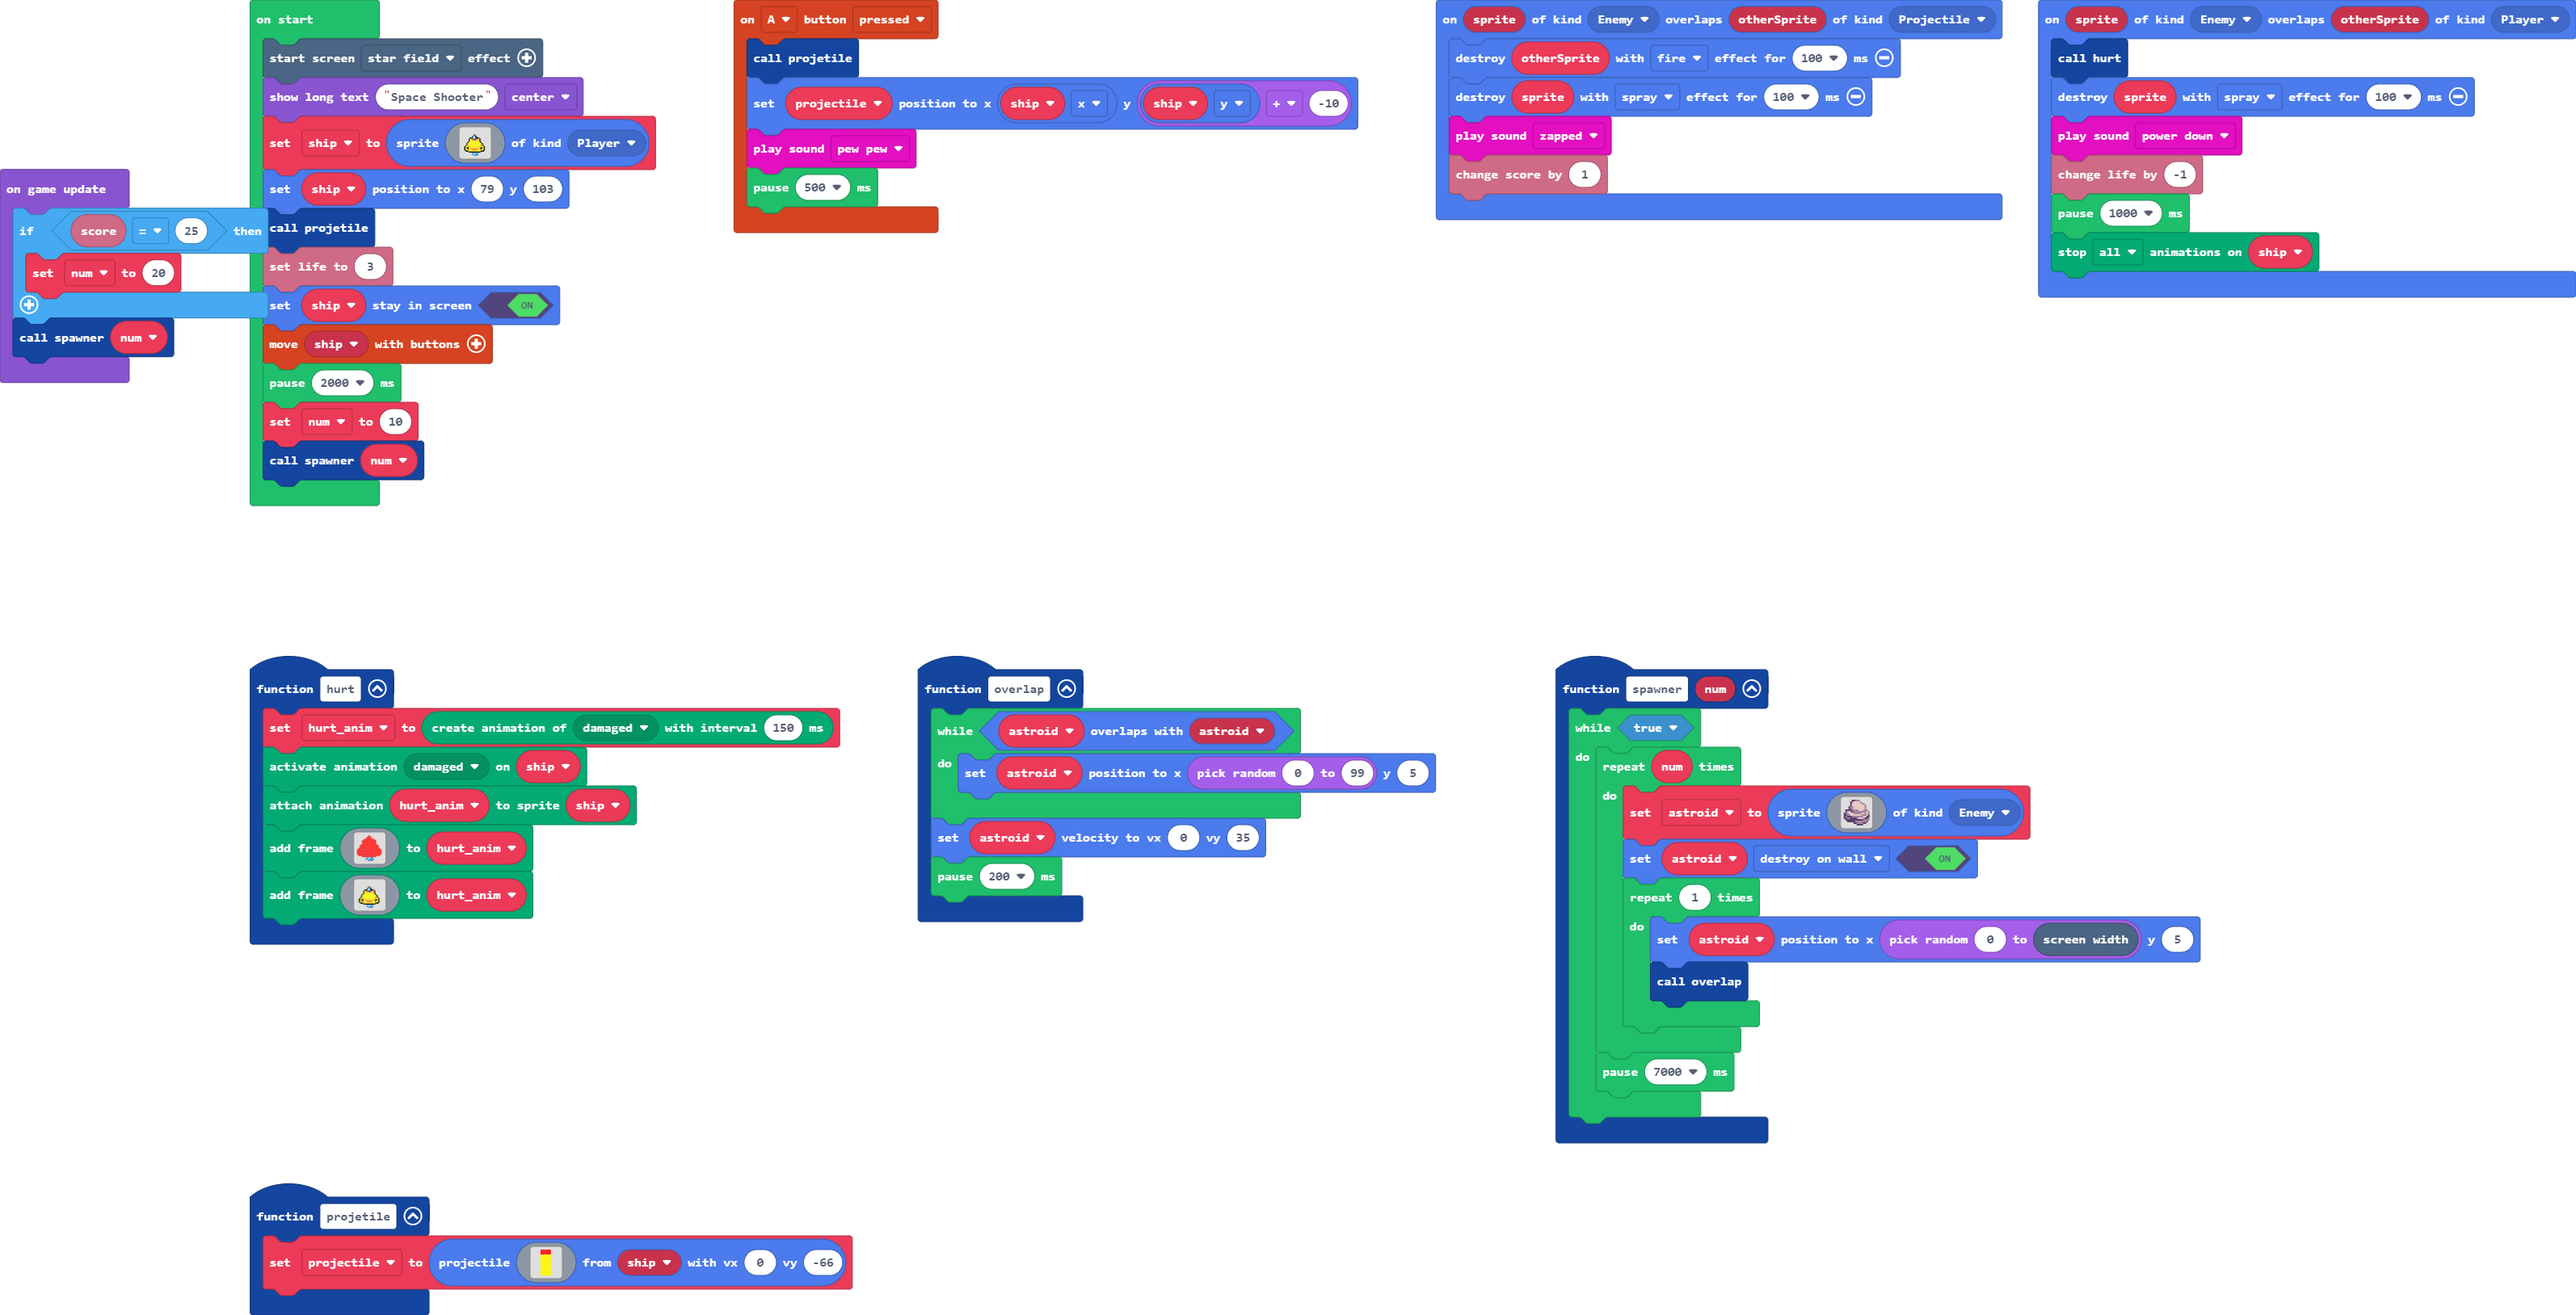
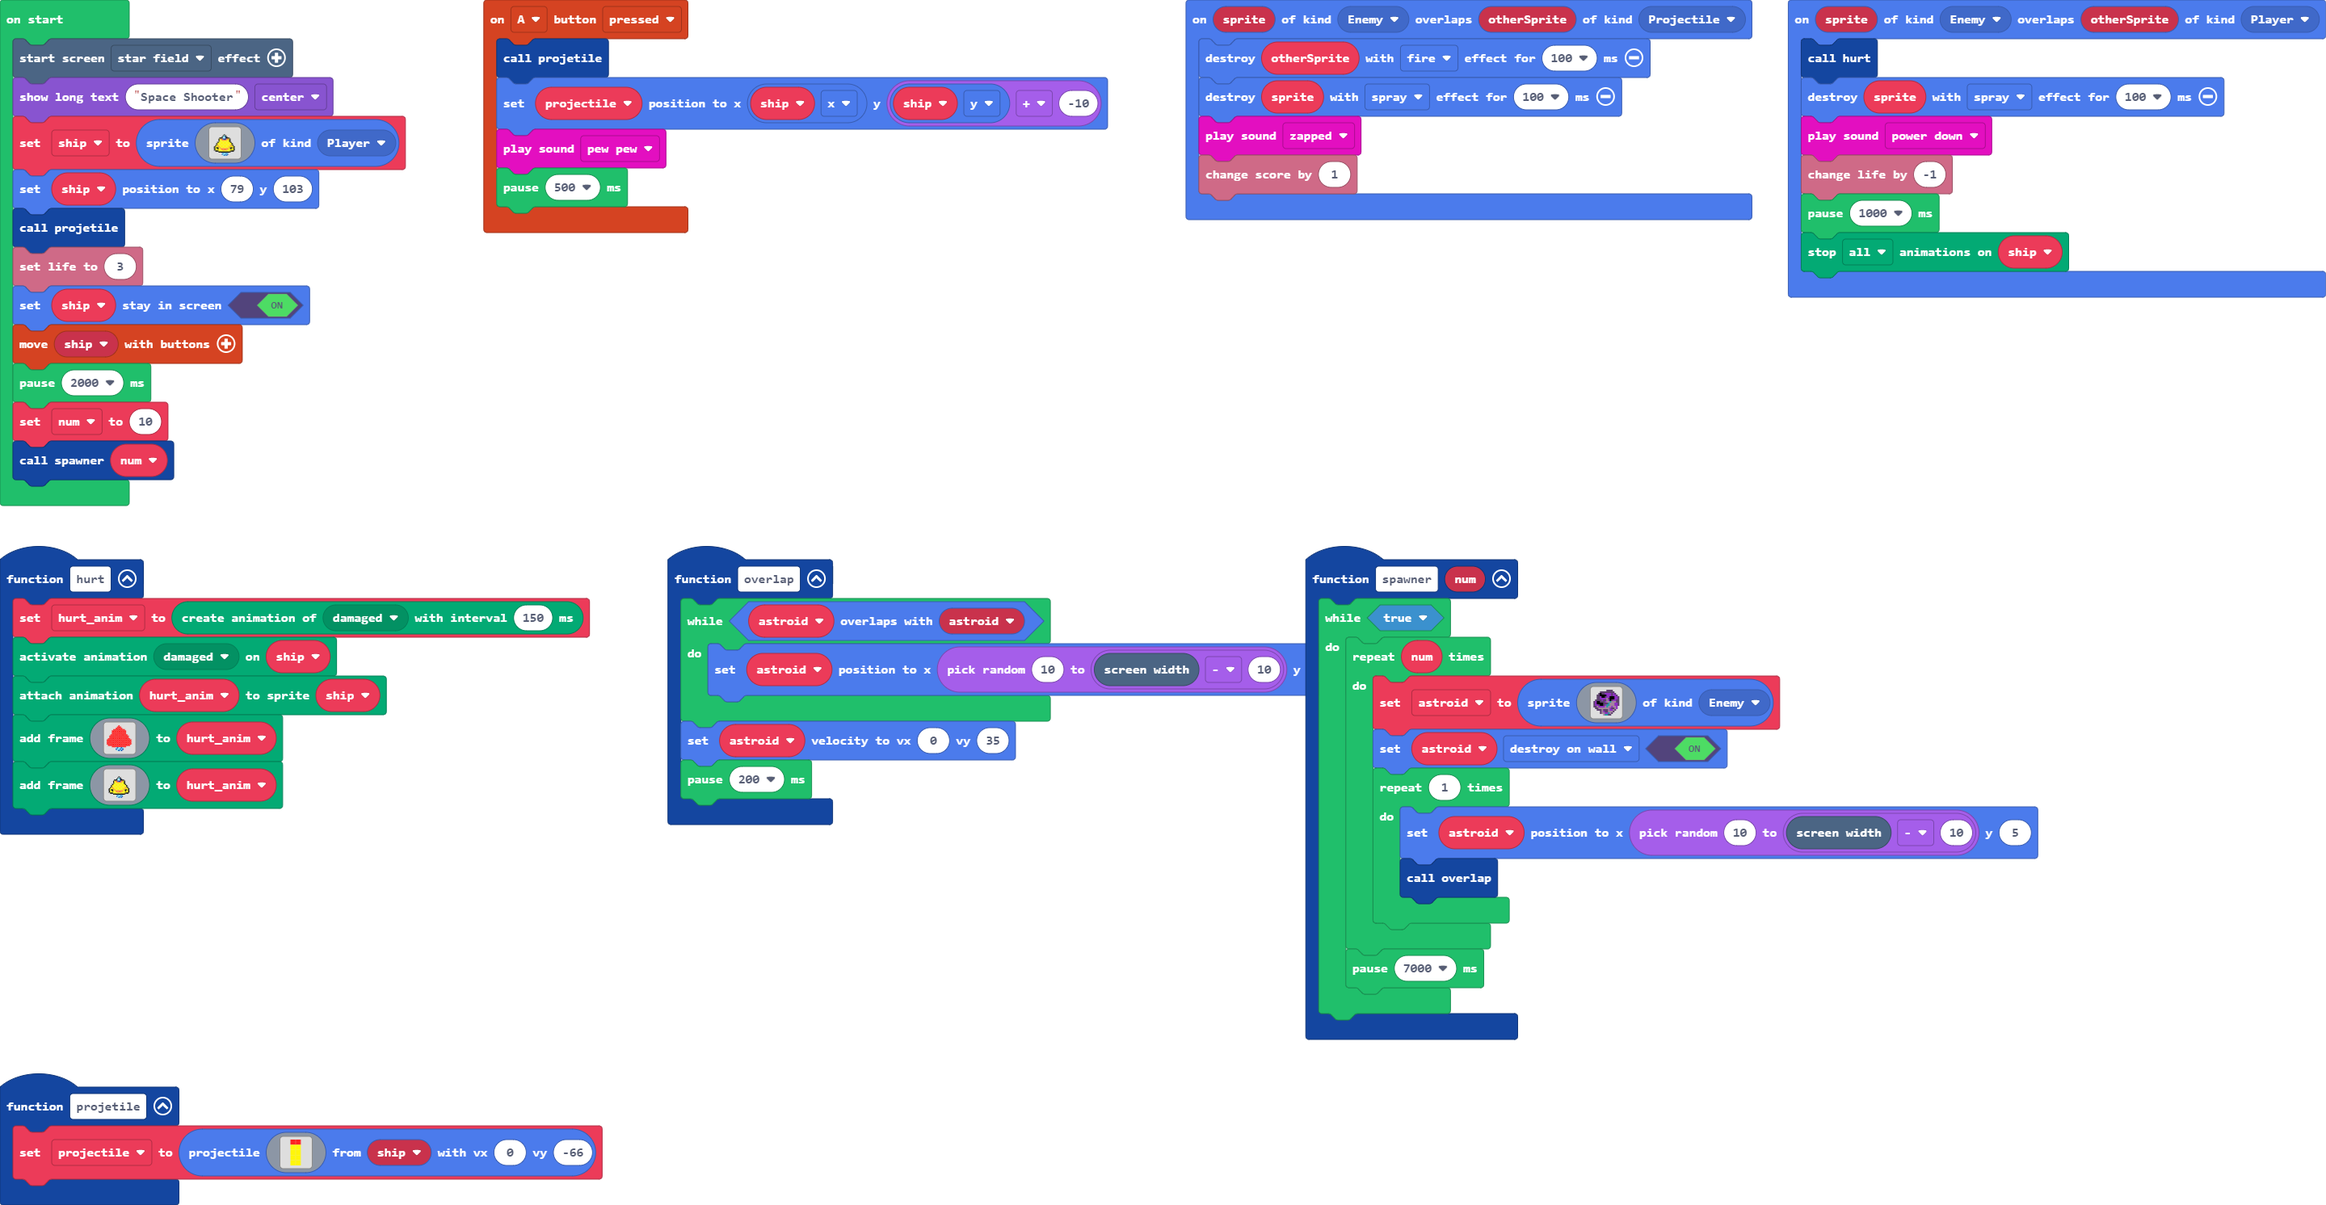
Update main.blocks, main.ts, images.g.jres, images.g.ts

diff --git a/images.g.ts b/images.g.ts
@@ -3,25 +3,6 @@ namespace myImages {
 
     helpers._registerFactory("image", function(name: string) {
         switch(helpers.stringTrim(name)) {
-            case "$j%%dW:s2s~HZ?q?_=y@":
-            case "asteroid":return img`
-. . . . . c c b b b . . . . . . 
-. . . . c b d d d d b . . . . . 
-. . . . c d d d d d d b b . . . 
-. . . . c d d d d d d d d b . . 
-. . . c b b d d d d d d d b . . 
-. . . c b b d d d d d d d b . . 
-. c c c c b b b b d d d b b b . 
-. c d d b c b b b b b b b b d b 
-c b b d d d b b b b b d d b d b 
-c c b b d d d d d d d b b b d c 
-c b c c c b b b b b b b d d c c 
-c c b b c c c c b d d d b c c b 
-. c c c c c c c c c c c b b b b 
-. . c c c c c b b b b b b b c . 
-. . . . . . c c b b b b c c . . 
-. . . . . . . . c c c c . . . . 
-`;
             case "D9-`T_l?fAeyK*B}I;lD":
             case "bullet":return img`
 2 2 
@@ -79,6 +60,25 @@ c c b b c c c c b d d d b c c b
 .......989989.......
 .......899898.......
 ........9898........
+`;
+            case "$j%%dW:s2s~HZ?q?_=y@":
+            case "asteroid":return img`
+. . . . . . . . c c c c . . . . 
+. . . . c c c c c c c c c . . . 
+. . . c f c c a a a a c a c . . 
+. . c c f f f f a a a c a a c . 
+. . c c a f f c a a f f f a a c 
+. . c c a a a a b c f f f a a c 
+. c c c c a c c b a f c a a c c 
+c a f f c c c a b b 6 b b b c c 
+c a f f f f c c c 6 b b b a a c 
+c a a c f f c a 6 6 b b b a a c 
+c c b a a a a b 6 b b a b b a . 
+. c c b b b b b b b a c c b a . 
+. . c c c b c c c b a a b c . . 
+. . . . c b a c c b b b c . . . 
+. . . . c b b a a 6 b c . . . . 
+. . . . . . b 6 6 c c . . . . . 
 `;
         }
         return null;

diff --git a/main.ts b/main.ts
@@ -29,7 +29,7 @@ sprites.onOverlap(SpriteKind.Enemy, SpriteKind.Player, function (sprite, otherSp
 })
 function overlap () {
     while (astroid.overlapsWith(astroid)) {
-        astroid.setPosition(randint(0, 99), 5)
+        astroid.setPosition(randint(10, scene.screenWidth() - 10), 5)
     }
     astroid.setVelocity(0, 35)
     pause(200)
@@ -47,7 +47,7 @@ function spawner (num: number) {
             astroid = sprites.create(assets.image`asteroid`, SpriteKind.Enemy)
             astroid.setFlag(SpriteFlag.DestroyOnWall, true)
             for (let index = 0; index < 1; index++) {
-                astroid.setPosition(randint(0, scene.screenWidth()), 5)
+                astroid.setPosition(randint(10, scene.screenWidth() - 10), 5)
                 overlap()
             }
         }
@@ -69,9 +69,3 @@ controller.moveSprite(ship)
 pause(2000)
 let num = 10
 spawner(num)
-game.onUpdate(function () {
-    if (info.score() == 25) {
-        num = 20
-    }
-    spawner(num)
-})
